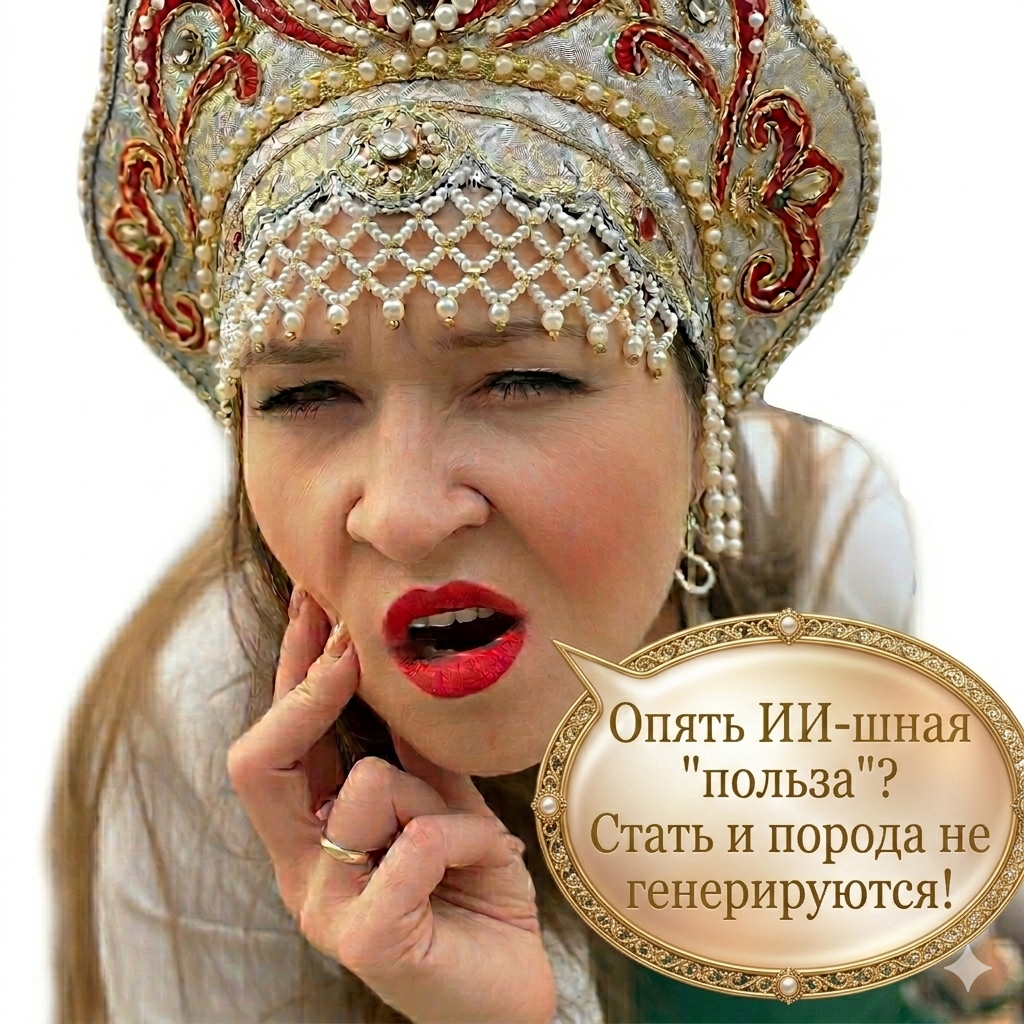
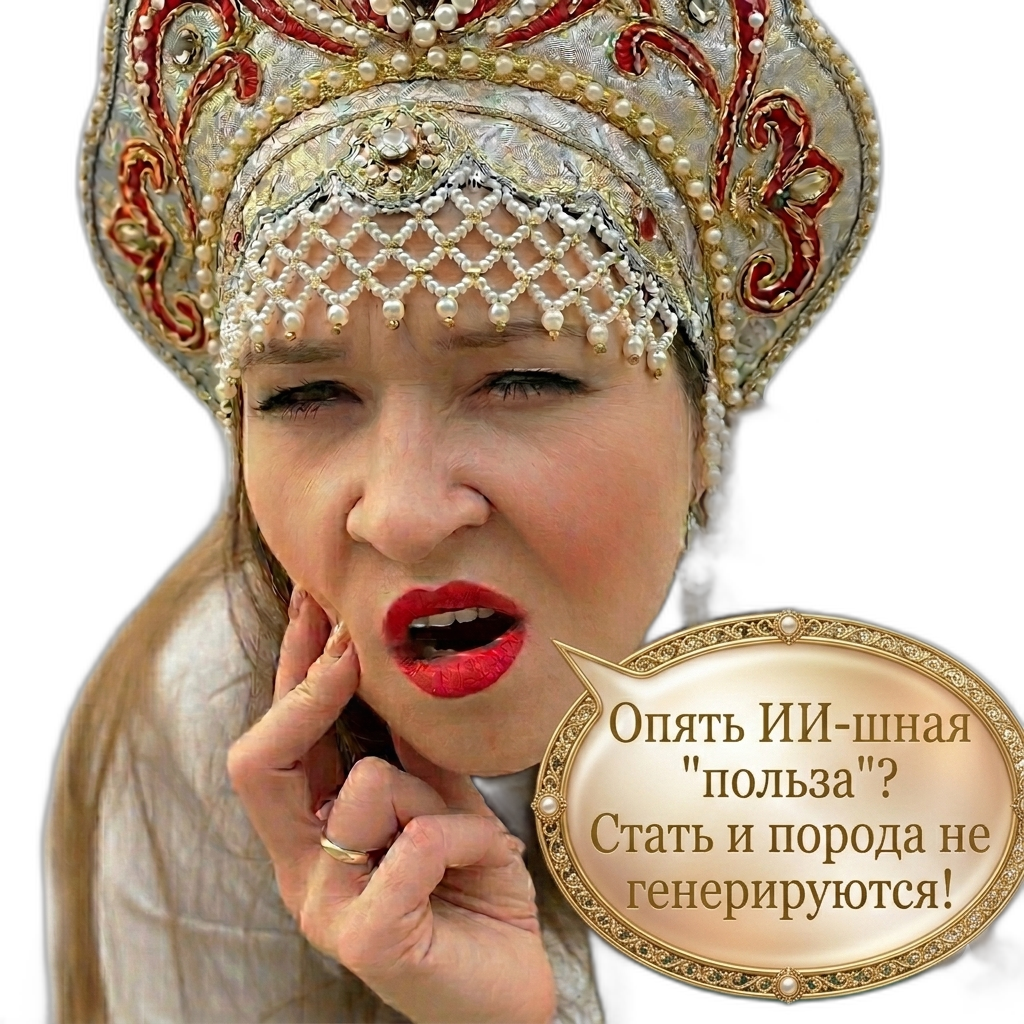
feat: фото мема «стать и порода» — фон удалён (прозрачный PNG)
Фон вырезан через rembg/U2-Net (1024×1024 RGBA). Рамка с border/background
заменена на drop-shadow, чтобы мем «парил» на странице без коробки. Сохранён
наклон -2.4° и hover-scale.

diff --git a/apps/tma/kreativ_chempionat.html b/apps/tma/kreativ_chempionat.html
@@ -632,15 +632,11 @@
       #why-not-enough .why-meme-frame{
         position:relative;
         width:100%;
-        max-width:440px;
+        max-width:460px;
         aspect-ratio:1/1;
-        border-radius:22px;
-        overflow:hidden;
-        border:2px solid rgba(255,207,164,.32);
-        box-shadow:0 18px 60px rgba(0,0,0,.45), 0 0 32px rgba(255,207,164,.18);
         transform:rotate(-2.4deg);
         transition:transform .35s ease;
-        background:rgba(13,17,26,.6);
+        filter:drop-shadow(0 18px 36px rgba(0,0,0,.55)) drop-shadow(0 0 28px rgba(255,207,164,.22));
       }
       #why-not-enough .why-meme-frame:hover{
         transform:rotate(-2.4deg) scale(1.02);
@@ -649,7 +645,7 @@
         display:block;
         width:100%;
         height:100%;
-        object-fit:cover;
+        object-fit:contain;
       }
       @media(max-width:900px){
         #why-not-enough .why-top-grid{
